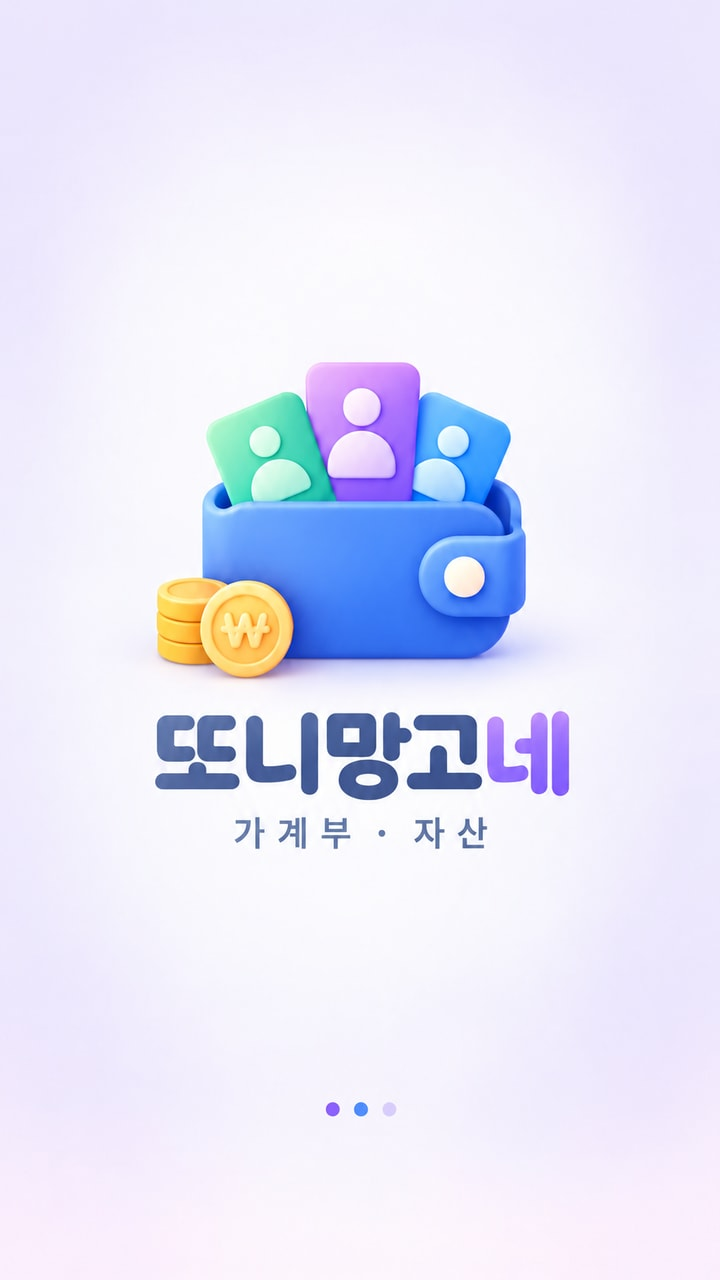
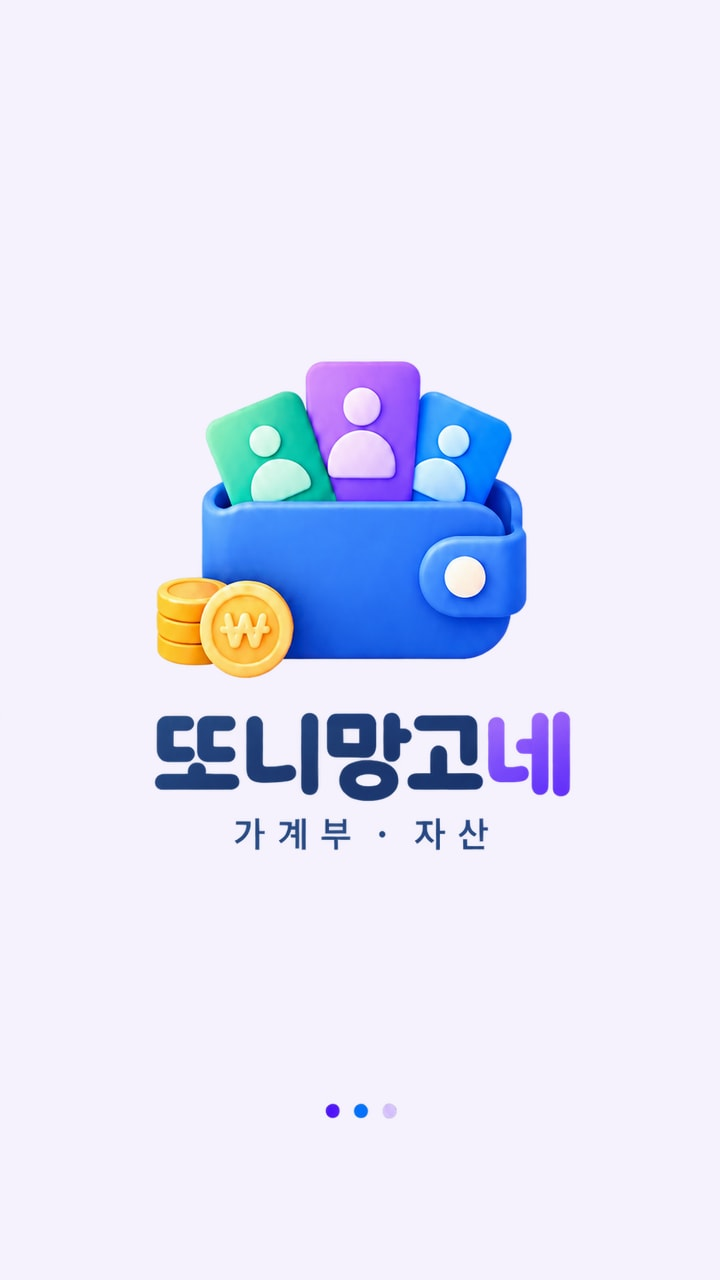
시작 화면과 앱 아이콘 배경을 시안의 단색으로 통일

Changed region(s): [[0.2139, 0.2812, 0.7944, 0.6875], [0.4583, 0.8438, 0.5194, 0.875]]

diff --git a/web/src/app/layout.tsx b/web/src/app/layout.tsx
@@ -34,8 +34,8 @@ export default function RootLayout({
   return (
     <html lang="ko">
       <head>
-        <link rel="apple-touch-icon" href="/icons/household-v2-apple-touch.png" />
-        <link rel="icon" type="image/png" href="/icons/household-v2-192.png" />
+        <link rel="apple-touch-icon" href="/icons/household-v3-apple-touch.png" />
+        <link rel="icon" type="image/png" href="/icons/household-v3-192.png" />
         {!isFirebaseEmulatorSuiteConfigured() && <>
           <link rel="preconnect" href="https://securetoken.googleapis.com" crossOrigin="anonymous" />
           <link rel="preconnect" href="https://firestore.googleapis.com" />

diff --git a/web/src/components/AppLoadingScreen.tsx b/web/src/components/AppLoadingScreen.tsx
@@ -3,7 +3,7 @@ import startupBrand from '@/assets/startup-brand.jpg';
 
 export default function AppLoadingScreen() {
   return (
-    <div role="status" aria-busy="true" className="fixed inset-x-0 top-0 h-[100dvh] bg-[#f8f5fe]">
+    <div role="status" aria-busy="true" className="fixed inset-x-0 top-0 h-[100dvh] bg-[#f5f2fd]">
       <Image
         src={startupBrand}
         alt=""

diff --git a/docs/operations/startup-brand-fit-2026-10-15.md b/docs/operations/startup-brand-fit-2026-10-15.md
@@ -1,5 +1,7 @@
 # 시작 화면 맞춤·최소 표시와 아이콘 배경 수정
 
+> 현재 색상은 아래 v2.0.2 후속 절의 사용자 참조색 `#F5F2FD`입니다. 최초 v2.0.1 검증·배포 이력은 보존합니다.
+
 ## 원인과 계약
 
 - 아이콘은 원본에 흰색 둥근 사각 타일이 들어 있고 Android adaptive icon이 바깥 모양을 다시 씌워 이중 배경으로 보였습니다. 지갑·사람 카드·동전 그림을 보존하면서 원본 타일을 제거합니다. Android는 투명 foreground와 단일 배경을, Web/iOS는 단일 평면 배경을 사용합니다.
@@ -46,3 +48,17 @@ Android 실제 MainActivity 19개가 통과했고, 새 시안·문구 삭제 후
 ## 배포 범위
 
 Android v2.0.1 / versionCode 39와 Web Git 자동배포 대상입니다. Firebase 실행 코드는 변경하지 않습니다. 기존 v2.0.0 APK는 덮어쓰지 않습니다. 실제 검증·배포 결과는 확인 후 기록합니다.
+
+## v2.0.2 후속: 시작 화면·아이콘 단색 배경
+
+사용자가 그라데이션 대신 단색 배경을 요청한 뒤 `1000017850.jpg`를 색상 기준으로 지정했습니다. 빈 배경의 대표 RGB는 `(245, 242, 253)`이므로 `#F5F2FD`로 통일합니다. 시작 화면 JPEG·Web 로딩 요소·PWA 시작 배경·Android 시작 이미지 배경·adaptive/legacy 앱 아이콘·Web/iOS 아이콘에 같은 색을 사용합니다. 지갑·제목·부제·하단 점의 배치, 삭제한 슬로건, 문서당 최소 1.2초 정책은 유지합니다.
+
+내장 imagegen으로 배경만 투명 분리했습니다. 프롬프트 핵심은 “Remove the entire gradient background, making it fully transparent. Preserve all foreground in its exact placement and scale: wallet/cards/coins, '또니망고네', '가계부 · 자산', three dots. Keep full 9:16 canvas, no trimming/repositioning, no deleted slogan.”입니다. 투명 원본은 `web/src/assets/startup-brand-foreground.png`, 동일한 단색 합성 결과는 `web/src/assets/startup-brand.jpg`와 Android `drawable-nodpi/startup_brand.jpg`입니다. JPEG 네 모서리의 실제 디코딩 값도 `(245, 242, 253)`으로 확인했습니다(720×1280, 36,955바이트).
+
+기존 투명 아이콘 원본으로 동일 크기·배치를 유지하여 배경만 합성합니다. 새 Web URL은 `/icons/household-v3-{192,512,apple-touch}.png`이며 기존 v1/v2 파일은 설치된 앱의 캐시 호환을 위해 보존합니다. Android는 v2.0.2 / code 40으로 발행하며 이미 공개·다운로드·서명 확인한 v2.0.1을 덮어쓰지 않습니다.
+
+v2.0.1의 `f53039ade9d904dfdfe93d9af063ebc978f389bb`는 Vercel Git 배포와 Production `7086677858` 성공, 운영 root·sw·해당 SHA buildManifest HTTP 200을 확인했습니다. CI `38699457238`의 미완료 결과는 후속 후보와 함께 확인하며, 새 버전 공개가 이전 실제 Android 검사를 대체하지 않습니다.
+
[1 lines of base64/hex data omitted]
+
+Web도 최종 리소스로 production build·실제 Emulator WebKit 기존 레이아웃/마지막 잔액 검사 1개를 통과했습니다(테스트 14.1초). 4종 화면의 16개 모서리 모두 RGB `(245, 242, 253)`으로 일치하고 중앙 내용 보존을 육안 확인했습니다. 기능 코드는 바꾸지 않아 앞선 단위 계약을 재반복하지 않았습니다. 로그는 `%TEMP%/household-startup-brand-v202-layout-e2e-20261015.log`입니다.
